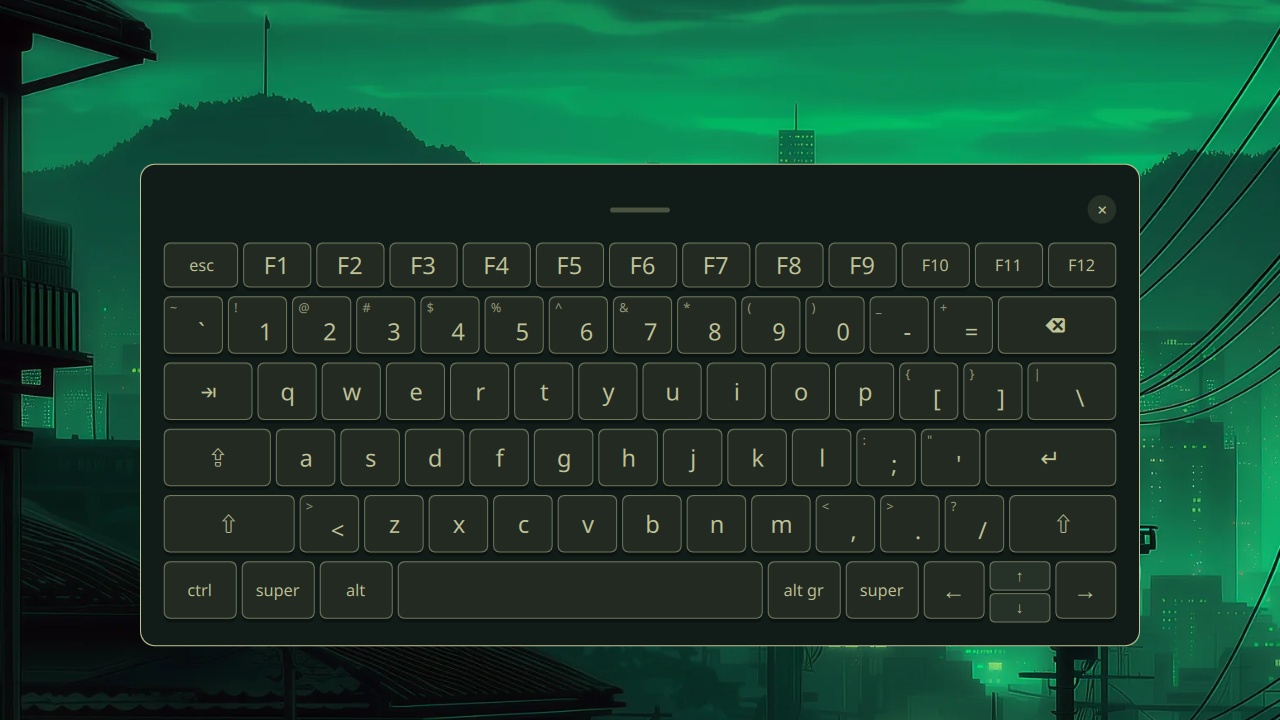
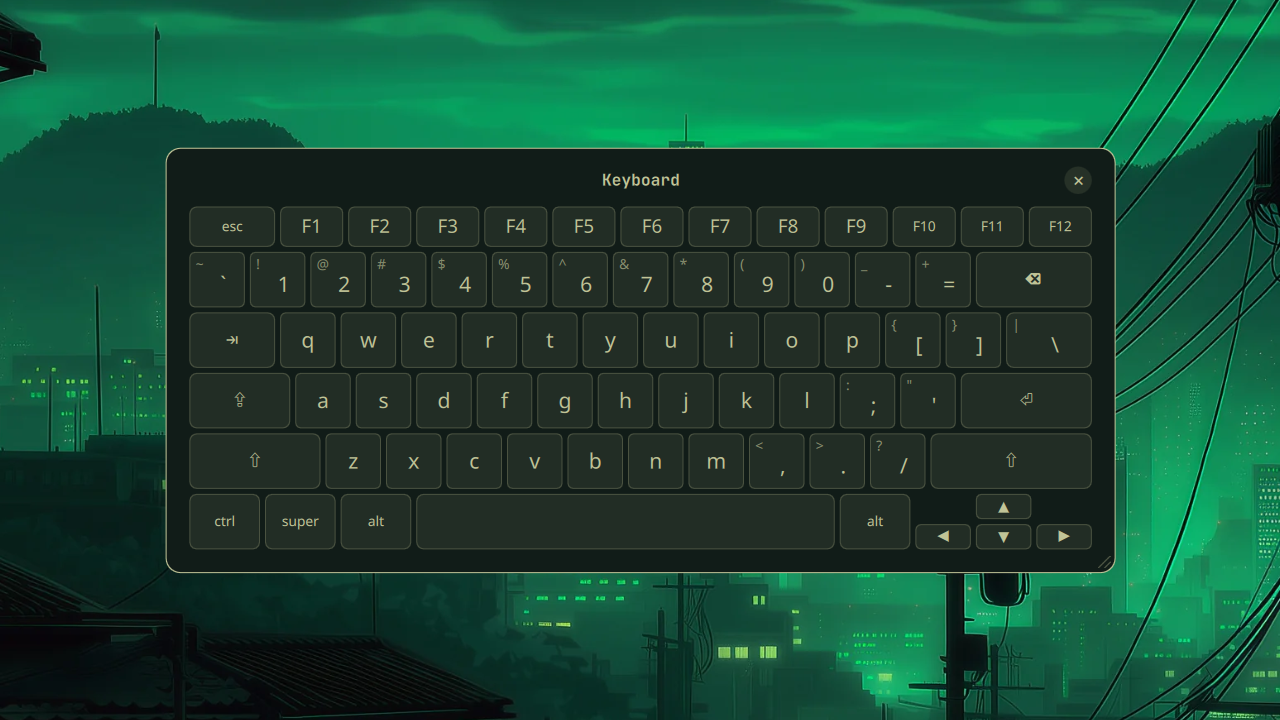
Refresh plugin documentation and screenshots

diff --git a/README.md b/README.md
@@ -1,22 +1,25 @@
 # Keyboard Layout Switcher
 
-Choose a keyboard layout from the Omarchy bar. Add shortcuts to switch without
-opening the menu.
+See your active input source in the Omarchy bar, switch layouts from its menu
+or a shortcut, and optionally open a clickable keyboard viewer.
 
 ## Bar and menu
 
-The bar indicator shows a short code for the active layout.
+The bar shows an icon with a short code for the active layout. While the menu
+is open, it shows a keyboard icon instead. If you enable the input source name,
+the full name stays visible beside either icon.
 
 ![Keyboard layout indicator with the menu closed](bar-closed.png)
 
 Left or right click the indicator to open the menu. The active layout has a
 check mark. Choosing a layout switches your keyboards together.
 
-![Keyboard layout menu open in the Omarchy bar](preview.png)
+![Keyboard layout menu with the active layout checked](preview.png)
 
 The menu also includes Emoji & Symbols, a source-name toggle, and an action to
-open `~/.config/hypr/input.lua` in your editor. Use arrows or `j`/`k` to move,
-Enter or Space to select, and Esc to close.
+open `~/.config/hypr/input.lua` in your editor. You can optionally add the
+keyboard viewer to the menu. Use arrows or `j`/`k` to move, Enter or Space to
+select, and Esc to close.
 
 ## Requirements
 
@@ -69,13 +72,15 @@ The indicator starts in the right section of the bar. To move it:
 omarchy bar move jesusarchive.keyboard-layout-switcher --section center
 ```
 
-The default style is a filled badge. Set `barAppearance` to `bordered` for an
-outline or `text` for plain text. `showSourceName` adds the full layout name:
+The default `barAppearance` is `icon`. Set it to `bordered` for an outlined
+code or `text` for plain text. `showSourceName` adds the full layout name:
 
 ```bash
 omarchy bar set jesusarchive.keyboard-layout-switcher barAppearance bordered
 omarchy bar set jesusarchive.keyboard-layout-switcher showSourceName true --json
 ```
+
+![Keyboard icon and full input source name while the menu is open](bar-source-name.png)
 
 Set a menu row's key to `true` to show it or `false` to hide it:
 
@@ -104,13 +109,14 @@ omarchy bar set jesusarchive.keyboard-layout-switcher showKeyboardViewer true --
 ```
 
 Then choose **Show Keyboard Viewer** from the menu to open a floating keyboard
-for the active layout. The `viewer` command opens it whether or not the menu
+for the active layout. The `viewer` command toggles it whether or not the menu
 row is shown. It opens in the center of the focused screen. Click keys to type
 into the focused application.
 
 - **Modifiers** work like macOS sticky keys. Click Shift, Ctrl, Alt, Super or
   AltGr once to apply it to the next key, or twice quickly to lock it. Click it
-  again to turn it off. Ctrl, Alt and Super send shortcuts such as Ctrl+C.
+  again to turn it off. Ctrl, Alt and Super send shortcuts such as Ctrl+C. Caps
+  Lock toggles the viewer's letter case.
 - **Accent keys** are outlined. Click one, then a letter, to type the accented
   letter. The result is the same as on your physical keyboard.
 - **Press and hold** a letter to choose an accented form. Hold Backspace, Space
@@ -132,7 +138,7 @@ keyboard. Its Caps Lock starts in sync with your keyboard but then changes
 only the viewer. With Hyprland's default `follow_mouse`, crossing another
 window on the way to the viewer moves keyboard focus to that window.
 
-![Keyboard viewer showing the English (US) layout](keyboard-viewer.png)
+![Centered keyboard viewer showing the English (US) layout](keyboard-viewer.png)
 
 ## Commands
 
